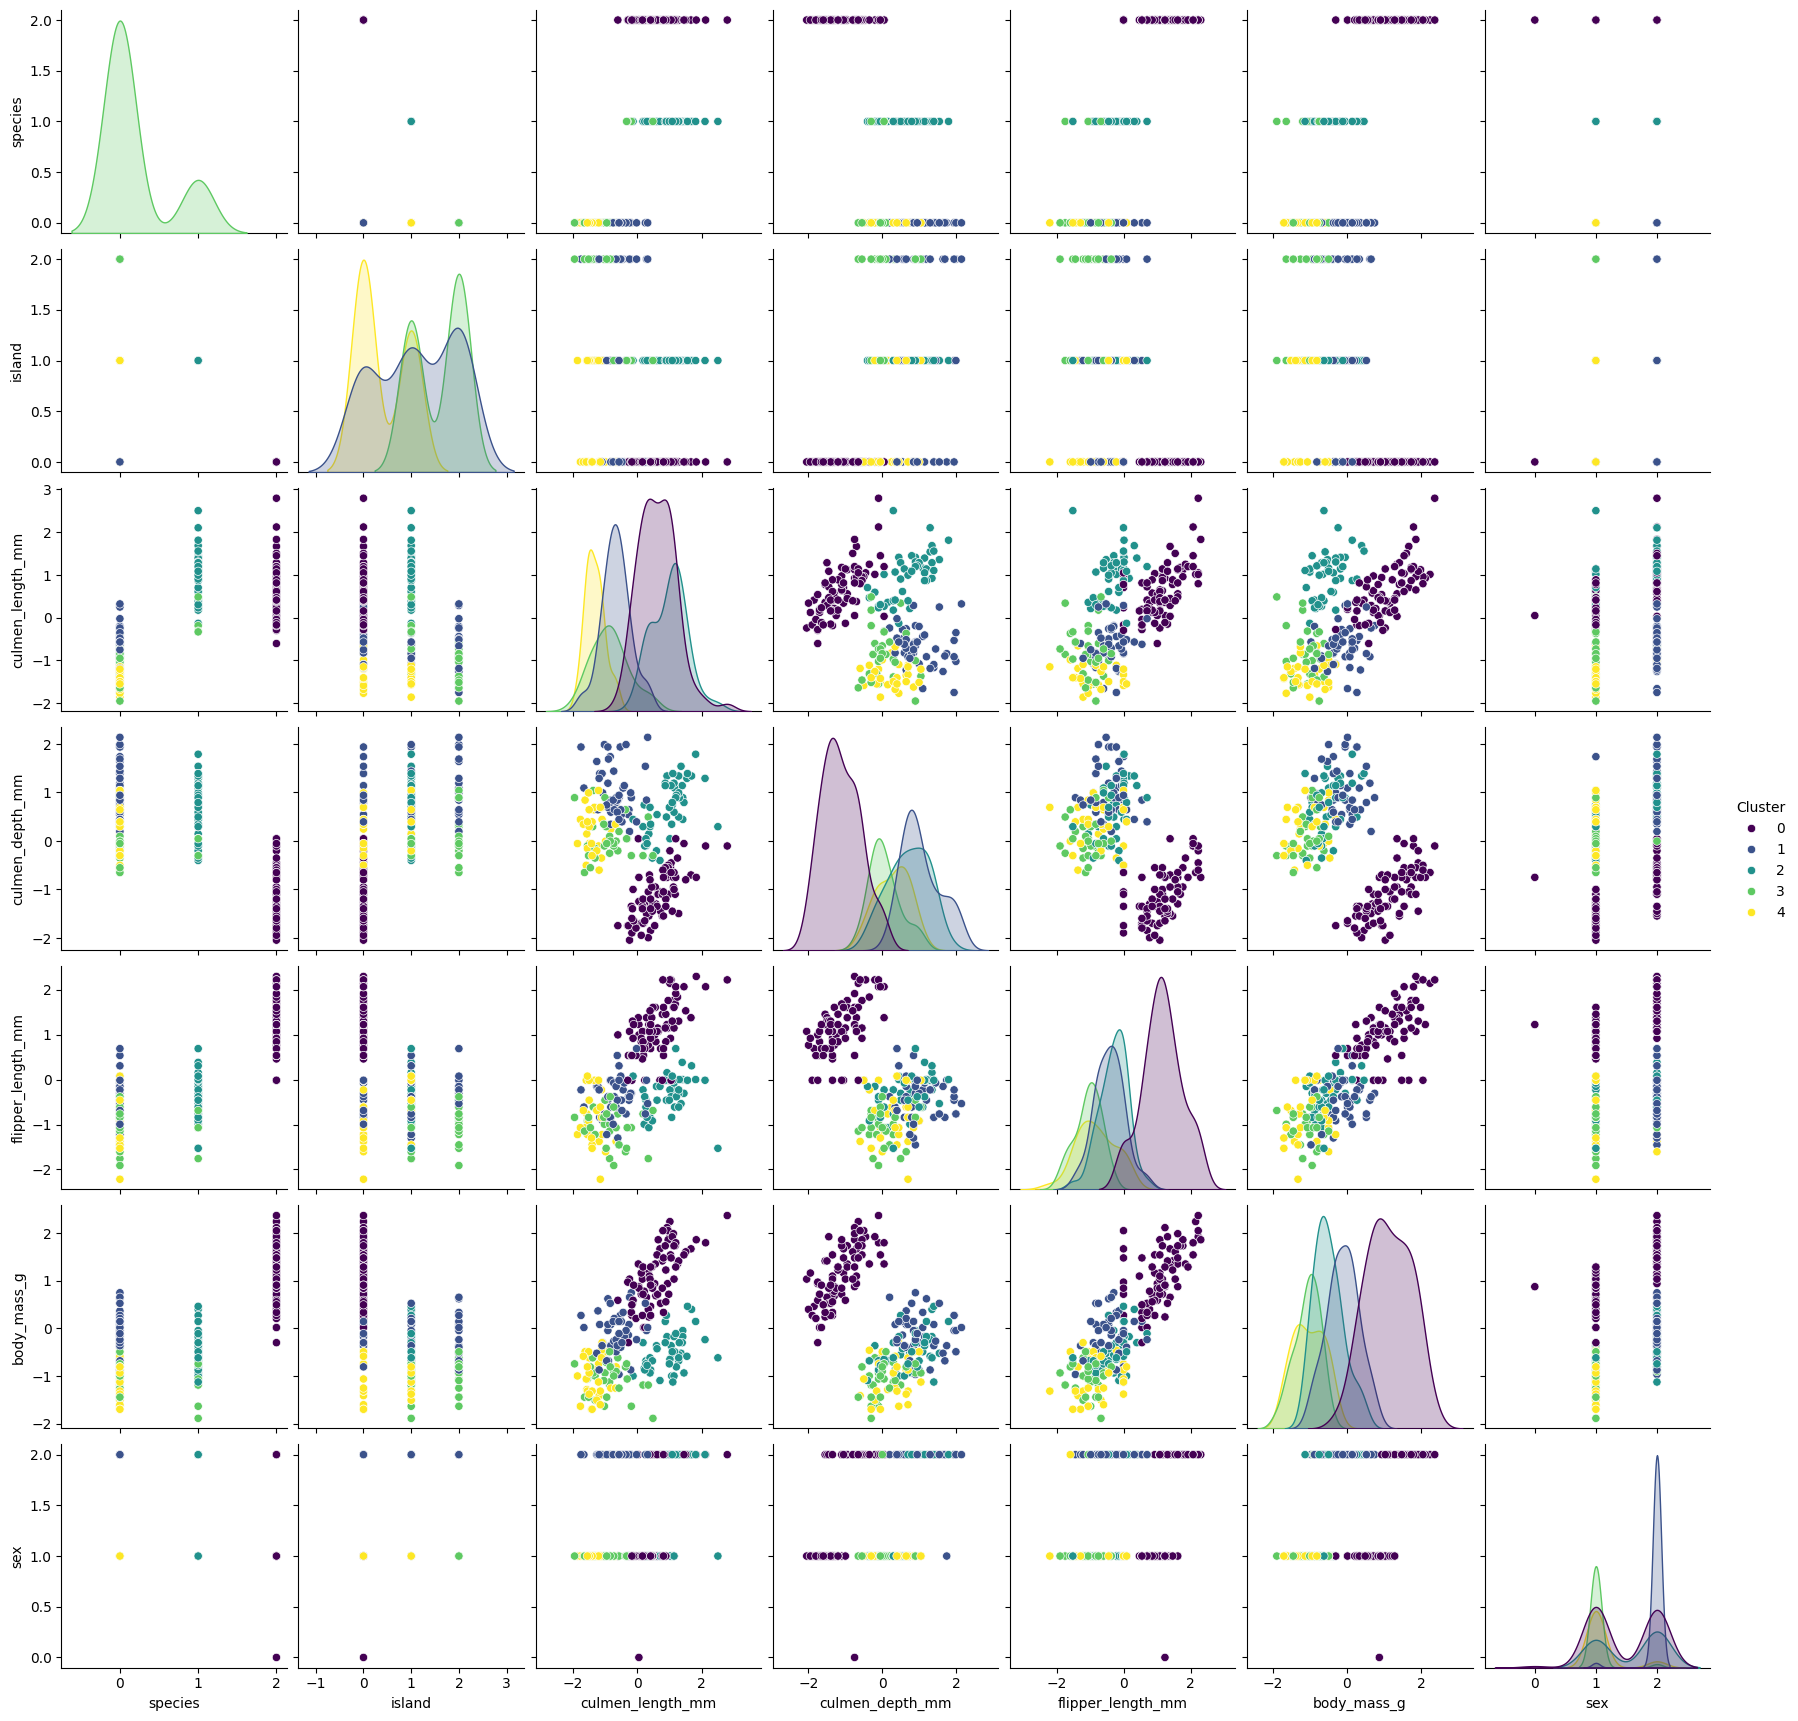
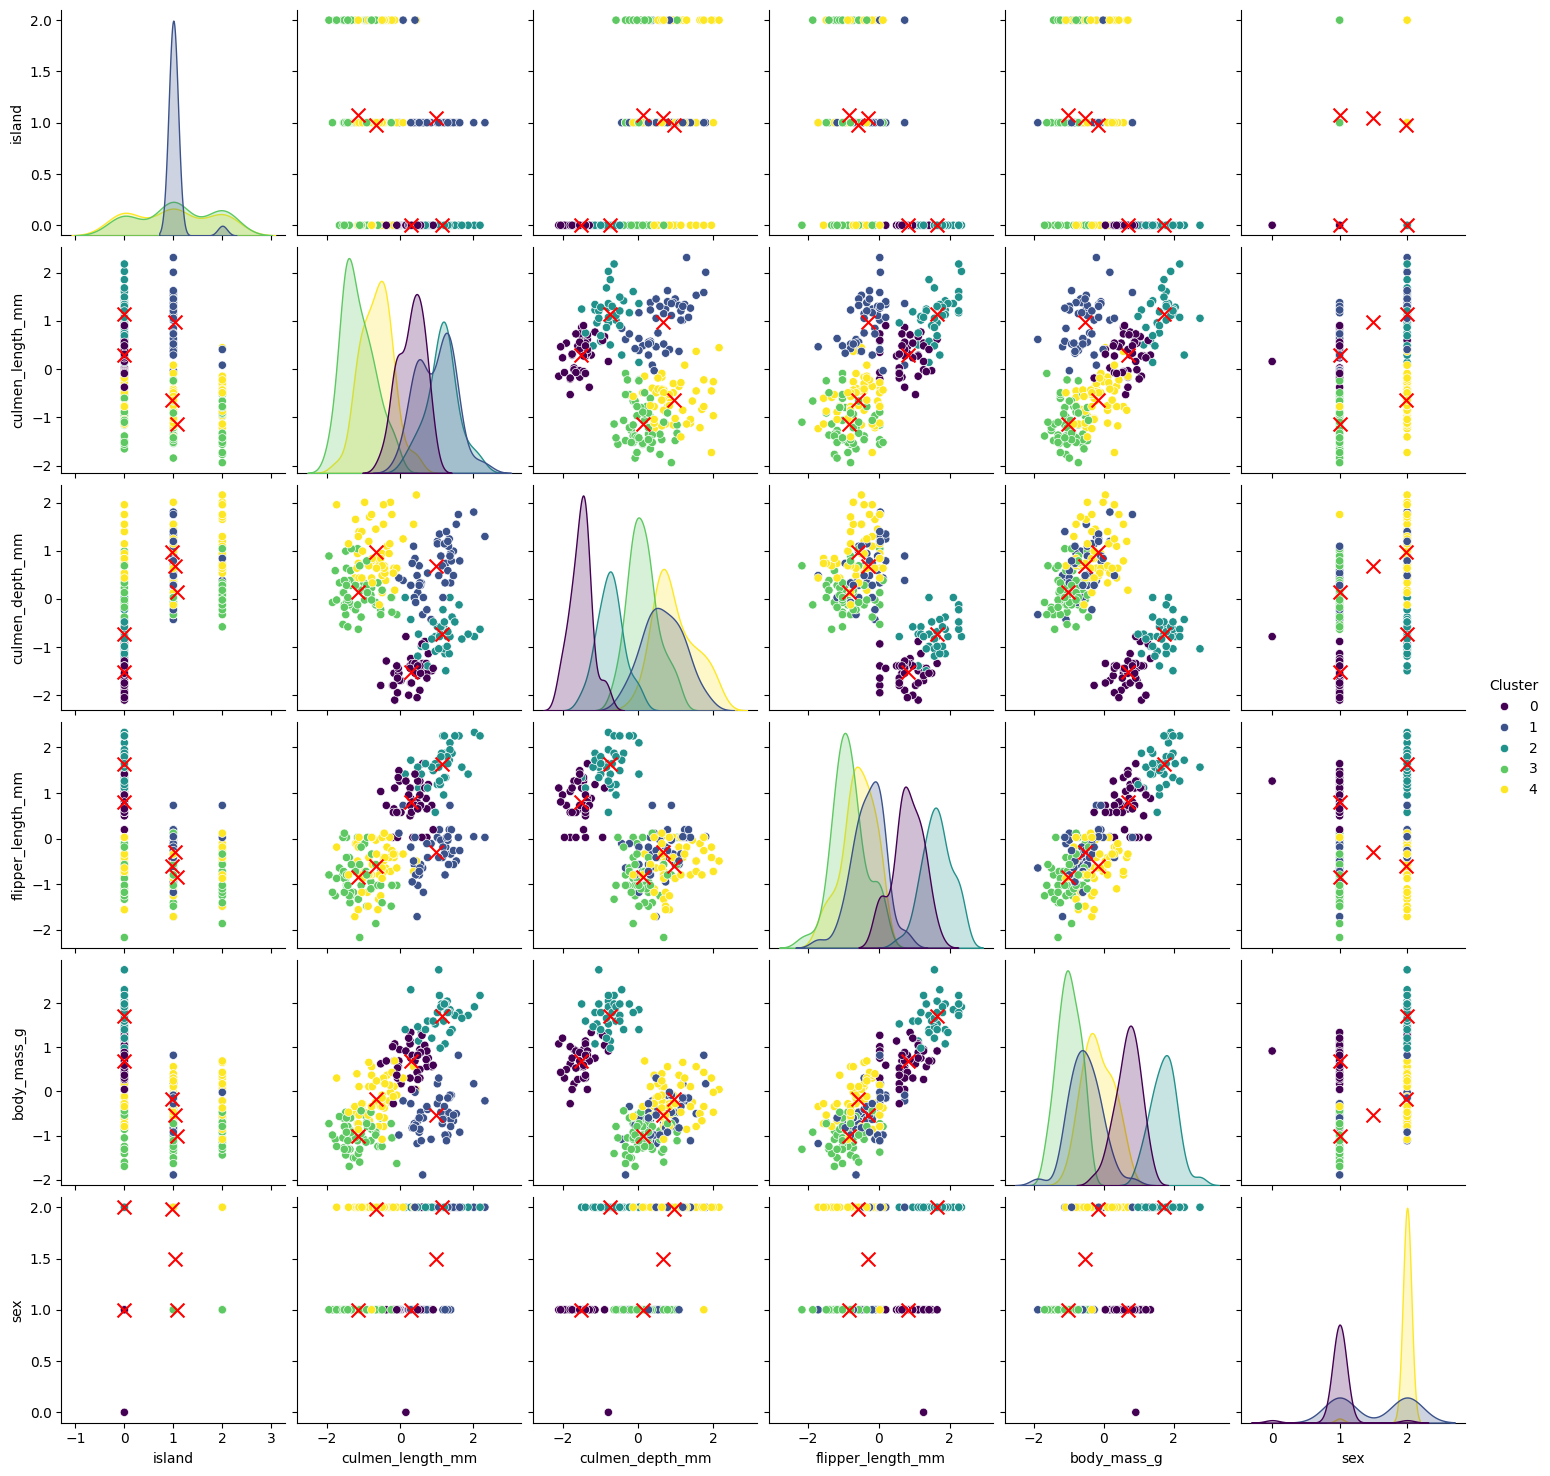
Actualización README E1 Capítulo 3

diff --git a/Ayudantías/Ayudantía 3/E1/README.md b/Ayudantías/Ayudantía 3/E1/README.md
@@ -188,14 +188,21 @@ Este código realiza el clústering con el número óptimo de clusters encontrad
 Para visualizar los clusters se debe tener en cuenta que dado que para los datos sin reducir se tienen 6 dimensiones (_features_), no se pueden visualizar los clusters en un gráfico. Y para obtener la información del comportamiento de los datos respecto a estas _features_ se puede utilizar el siguiente código:
 
 ```python
-sns.pairplot(training_set_copy, hue='Cluster', palette='viridis')
+pairplot = sns.pairplot(training_set_copy, vars=features, hue='Cluster', palette='viridis')
+
+for ax in pairplot.axes.flat:
+    xlabel = ax.get_xlabel()
+    ylabel = ax.get_ylabel()
+    if xlabel in features and ylabel in features:
+        ax.scatter(centroids[:, features.index(xlabel)], centroids[:, features.index(ylabel)], c='red', s=100, marker='x')
+        
 plt.show()
 ```
 
-![alt text](img/image-2.png)
+![alt text](image.png)
 
 
-Este gráfico lo único que hace es mostrar el comportamiento de los datos respecto a sus _features_ en distintas combinaciones en gráficos de 2D.
+Este gráfico lo único que hace es mostrar el comportamiento de los datos en sus respectivos clusters respecto a sus _features_ en distintas combinaciones en gráficos de 2D, indicando también sus centroides.
 
 Para el caso de los datos reducidos con PCA y t-SNE se puede visualizar los clusters en un gráfico junto con los centroides. Para esto se utiliza el siguiente código:
 
